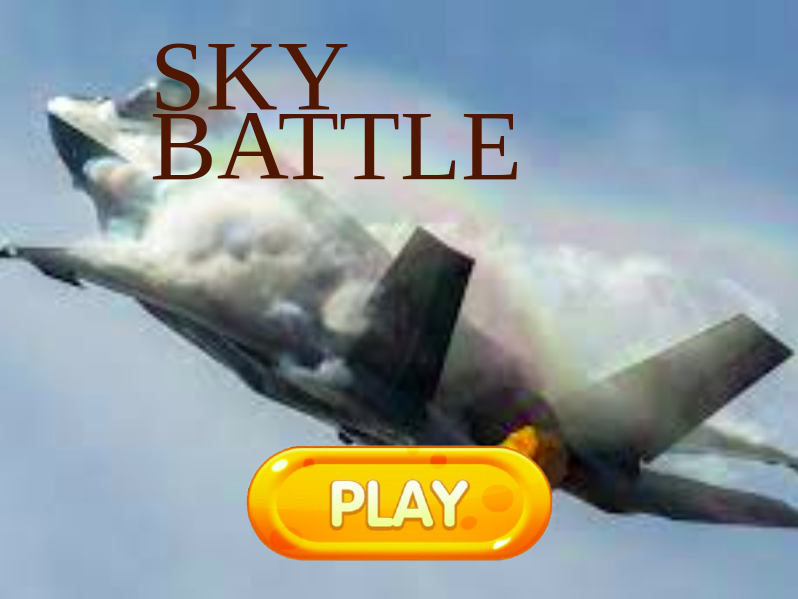
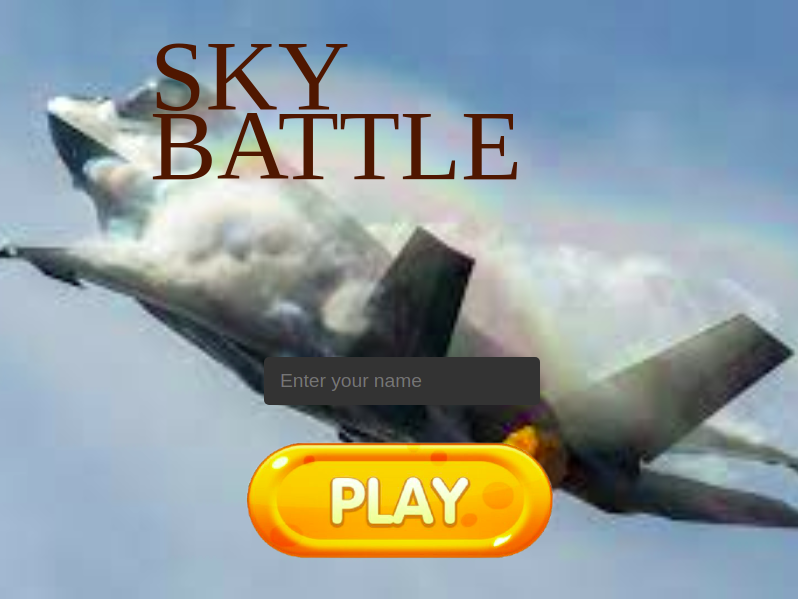
Improve the README and add the game design document

Changed region(s): [[0.3008, 0.7212, 0.6917, 0.9616], [0.3308, 0.571, 0.6917, 0.6912]]

diff --git a/GameDesignDocument.md b/GameDesignDocument.md
@@ -1,0 +1,88 @@
+# Sky Battle
+
+**Writer: Blaise Pascal SHYAKA**
+
+# Table of contents
+
+- [Story Overview](#Story-Overview)
+- [Game Controls](#Game-Controls)
+- [Third party applications](#Third-party-applications)
+- [Scenes](#Scenes)
+- [HUD system](#HUD-system)
+- [Player characters](#Player-characters)
+  - [Player](#Player)
+  - [Enemies](#Enemies)
+- [Player skills](#Player-skills)
+- [Health](#Health)
+- [Scoring](#Scoring)
+
+## Story Overview
+
+Fighter jets from an unknown country enters your airspace. You only have one helicopter and you try to defend your territory for as long as you can, as you wait for a backup.
+
+## Game Controls
+
+![image](https://image.shutterstock.com/image-vector/arrow-button-on-keyboard-icon-260nw-339331691.jpg)
+
+- Use arrow keys on your to move your ship
+- Space bar to shot
+  
+### Third party applications
+
+- Phaser framework
+- JavaScript ES6 Modules
+- HTML5
+- Webpack
+- Babel
+- Phaser
+
+
+## Scenes
+- **Opening scene** It displays a form to fill in your name, a play button, and a jet image as a background
+
+![Homepage Screenshot](./assets/game-homepage-screenshot.png)
+
+- **Main Scene**.- The player's helicopter shows up in the middle and then enemy jets start entering the air space with their bombs
+- **Game Over**.- When the player's helicopter is hit, the game over scene will show up. It displays your score, as well as options to play again or view the leaderboard.
+- **Leader board**.- Display only the top 5 gamers. From here, you have an option to play again.
+
+## HUD system 
+There's no any health status, but we could see a score displaying each time player explode or kill an enemy 
+
+## Player characters
+  ### Player
+    
+ ![Player's helicopter](./assets/helicopter.png)
+
+  This is the player, designed to move all over directions
+
+  ### Enemies
+
+  **Enemy Jet**
+
+ ![Enemy jet](./assets/sprite2.png)
+
+  It will be shooting bombs towards your helicopter
+
+  **Enemy jets' bombs**
+
+  ![Enemy jet](./assets/sprEnemy2.png)
+
+  These are the bombs enemy jets will be shooting
+
+## Player skills
+
+
+**Player**.- Moves in any directions around the game scene and can shoot powerful lasers
+
+**Enemy jets**.- Can accelerate and shoot towards the player
+
+## Health 
+
+**Player**.- Die with one shot, have one life and game ends
+
+**Enemy jet**.-Explodes once it is hit
+
+## Scoring
+
+  The player scores 0.005 points once they destroy the enemy bombs; whereas, when the player shoots down a jet, 0.01 points are scored.

diff --git a/README.md b/README.md
@@ -14,6 +14,10 @@ Sky-Battle is a shooter game developed using phaser. A player uses a super-helic
 - Webpack
 - Babel
 
+## Game Design Document
+
+The game design document can be found [here](./GameDesignDocument.md)
+
 ## Live Demo
 
 [Live demo link](https://blaise-shyaka.github.io/sky-battle/build/index.html)
@@ -27,13 +31,32 @@ Sky-Battle is a shooter game developed using phaser. A player uses a super-helic
 
 - Clone the [repository](https://github.com/Blaise-Shyaka/sky-battle)
 - Run `npm install` to install dependencies
-- Run `npm start` build the project and start the server 
+- Run `npm start` to build the project and start the server
+- To run tests, run `npm run test`
 
-## How to play 
+## How to play
 
-- Once the game loads, click the "Play" Button
+## Characters
+
+The game has 2 main characters:
+
+1. The player uses a helicopter that fires powerful lasers
+2. The villains are using fighter jets with heavy bombs
+
+The main task of a player is to fire at as many jets and bombs as possible to score higher, while avoiding collisions with the jets or their bombs.
+
+### Game Control
+
+To play the game, the arrow keys highlighted below as well as a space bar will be very crucial.
+
+![Arrow Keys](https://image.shutterstock.com/image-vector/arrow-button-on-keyboard-icon-260nw-339331691.jpg)
+
+
+- Once the game loads, Fill in your name and then click the "Play" Button
+- Please note that a name should be more than 2 characters
 - Use arrow keys to control your helicopter and escape from jets as well as their bombs.
-- Use the space bar to shoot down jets and their bombs. The more you shoot, the higher the score.
+- Use the space bar to shoot down jets and their bombs. The more jets and bombs you shoot, the higher the score.
+- Please also note that shooting down jets makes you score much higher.
 
 ## Author
 
